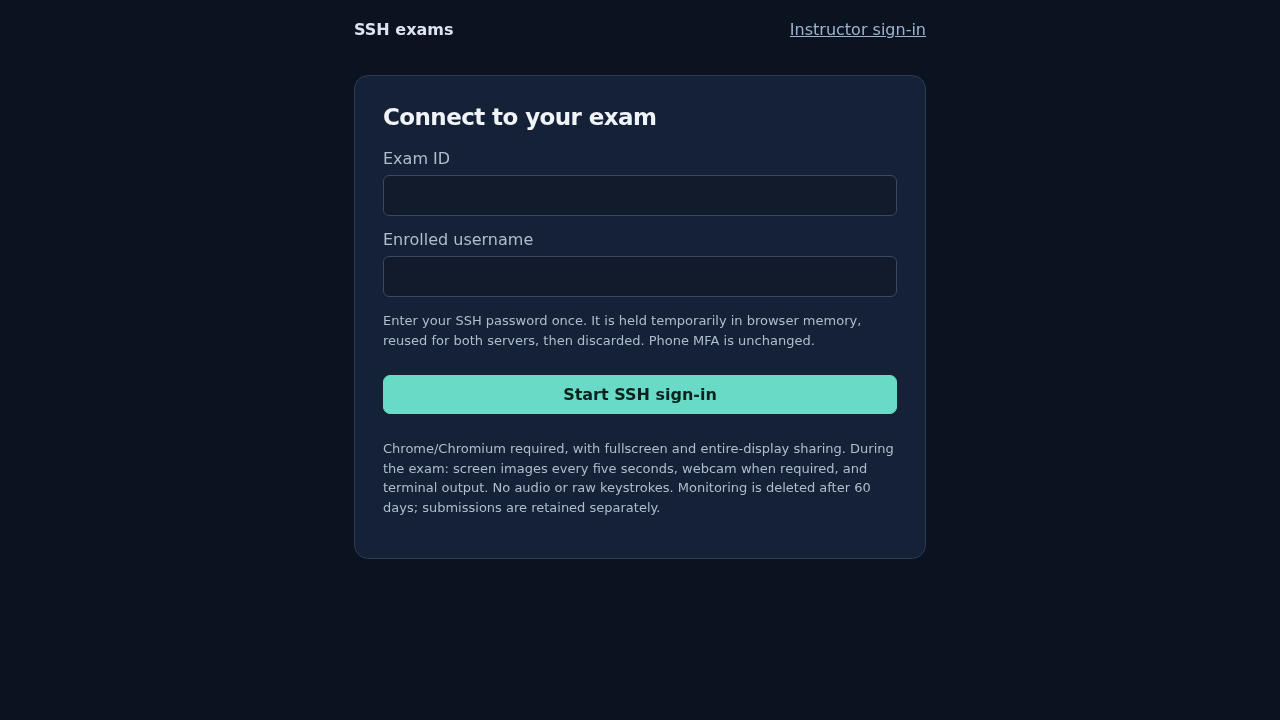
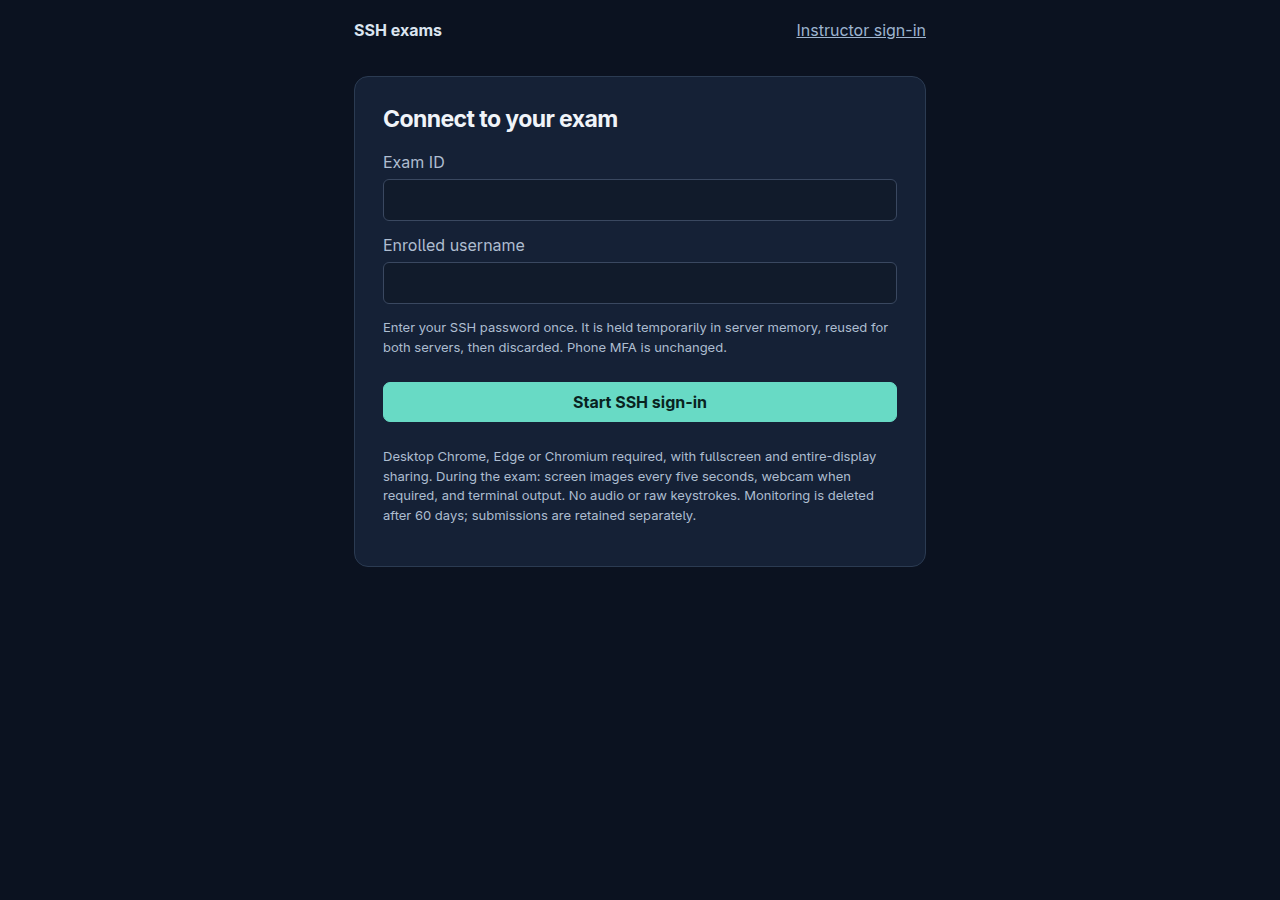
Distinguish paused SSH disconnects from agent outages and document Edge support

diff --git a/tests/unit/lifecycle.test.ts b/tests/unit/lifecycle.test.ts
@@ -1,6 +1,7 @@
 import { it, expect } from "vitest";
 import { Store } from "../../apps/server/src/db.js";
 import { Lifecycle } from "../../apps/server/src/lifecycle.js";
+import { AgentCommandDisconnectedError } from "../../apps/server/src/agent.js";
 import { Monitoring } from "../../apps/server/src/monitoring.js";
 import { mkdtempSync, rmSync } from "node:fs";
 import { tmpdir } from "node:os";
@@ -41,6 +42,61 @@ it("announces pause and disconnects before waiting for the class agent", async (
     rmSync(dir, { recursive: true, force: true });
   }
 });
+it.each([true, false])(
+  "audits an unconfirmed pause (disconnected=%s) without claiming an agent outage",
+  async (disconnected) => {
+    const dir = mkdtempSync(tmpdir() + "/pause-alert-");
+    const s = new Store(dir);
+    try {
+      s.db.exec(
+        "INSERT INTO exams VALUES('e','{}'); INSERT INTO attempts(id,exam,username,uid,state,settings,start,deadline) VALUES('a','e','alice',1001,'ACTIVE','{}',1,9999999999999);",
+      );
+      let reject!: (error: Error) => void;
+      const life = new Lifecycle(
+        s,
+        {
+          call: () =>
+            new Promise((_, fail) => {
+              reject = fail;
+            }),
+        } as any,
+        new Monitoring(s),
+      );
+      life.onPaused = () => {
+        reject(
+          disconnected
+            ? new AgentCommandDisconnectedError("SSH connection ended")
+            : Error("Agent command rejected: do not expose secret-details"),
+        );
+      };
+      await life.lock("a", "Monitoring confirmation expired");
+      expect(s.attempt("a").state).toBe("LOCKED");
+      expect(s.attempt("a").deadline).toBe(9999999999999);
+      const alerts = s.db
+        .prepare("SELECT subject,body FROM outbox ORDER BY rowid")
+        .all() as any[];
+      expect(alerts.map((a) => a.subject)).toEqual(
+        disconnected
+          ? ["Exam interrupted: alice"]
+          : ["Exam interrupted: alice", "Exam pause confirmation pending"],
+      );
+      expect(alerts[0].body).toContain("Monitoring confirmation expired");
+      const audit = s.db
+        .prepare(
+          "SELECT detail FROM audit WHERE action='lock-acknowledgment-pending'",
+        )
+        .get() as any;
+      expect(JSON.parse(audit.detail)).toEqual({
+        generation: 1,
+        cause: disconnected ? "ssh-disconnected" : "command-failed",
+      });
+      expect(JSON.stringify({ alerts, audit })).not.toContain("secret-details");
+    } finally {
+      s.close();
+      rmSync(dir, { recursive: true, force: true });
+    }
+  },
+);
 it("reconciles a lost activation acknowledgment into a lock with the original deadline", async () => {
   const dir = mkdtempSync(tmpdir() + "/exam-reconcile-");
   const s = new Store(dir);

diff --git a/apps/server/src/lifecycle.ts b/apps/server/src/lifecycle.ts
@@ -16,7 +16,7 @@ import {
 } from "node:fs";
 import path from "node:path";
 import { Store, now, hash, type Attempt } from "./db.js";
-import { Agent } from "./agent.js";
+import { Agent, AgentCommandDisconnectedError } from "./agent.js";
 import { Monitoring } from "./monitoring.js";
 // Collection metadata is immutable; connection bookkeeping is not part of the
 // submission. SSH replies and callbacks must compare the same public snapshot.
@@ -114,11 +114,8 @@ export class Lifecycle {
     });
     transaction();
     this.store.audit("gateway", "reauthentication-required", id);
-    const locking = this.agent.call("lock-attempt", {
-      id,
-      reason,
-      generation: this.store.attempt(id).generation,
-    });
+    const generation = this.store.attempt(id).generation;
+    const locking = this.agent.call("lock-attempt", { id, reason, generation });
     this.onPaused(this.store.attempt(id));
     await locking
       .then((remote) => {
@@ -131,12 +128,25 @@ export class Lifecycle {
             .run(id);
         }
       })
-      .catch(() =>
-        this.alert(
-          "Class agent unavailable",
-          `Attempt ${id} is locked at the gateway. Local execution lease must expire.`,
-        ),
-      );
+      .catch((error) => {
+        const disconnected = error instanceof AgentCommandDisconnectedError;
+        // Pausing deliberately closes student SSH, including pending command replies.
+        // Keep the uncertainty visible without misreporting that as an agent outage.
+        this.store.audit(
+          "gateway",
+          "lock-acknowledgment-pending",
+          id,
+          JSON.stringify({
+            generation,
+            cause: disconnected ? "ssh-disconnected" : "command-failed",
+          }),
+        );
+        if (!disconnected)
+          this.alert(
+            "Exam pause confirmation pending",
+            `${a.exam}: ${a.username}, attempt ${id}. Exam access is blocked at the gateway, but the class-server pause command was not confirmed. The local watchdog enforces expired execution leases. Review the authenticated dashboard and class-server status. A missing confirmation does not establish an agent outage.`,
+          );
+      });
   }
   async reconcile(id: string) {
     const remote = await this.agent.call("inspect-attempt", { id });

diff --git a/apps/server/src/ssh.ts b/apps/server/src/ssh.ts
@@ -2,7 +2,7 @@ import ssh2 from "ssh2";
 import type { Client as SSHClient, ClientChannel, ConnectConfig } from "ssh2";
 const { Client } = ssh2;
 import type { Config } from "../../../packages/config/index.js";
-import type { Agent } from "./agent.js";
+import { AgentCommandDisconnectedError, type Agent } from "./agent.js";
 import { LoginPassword, isPasswordPrompt } from "./login-password.js";
 export type Dialogue = (
   host: string,
@@ -321,7 +321,8 @@ export class Connection {
     }
   }
   async command(op: string, body: any = {}): Promise<any> {
-    if (!this.alive) throw Error("SSH transports unavailable");
+    if (!this.alive)
+      throw new AgentCommandDisconnectedError("SSH transports unavailable");
     const envelope = this.agent.sign(op, this.username, this.transport, body);
     return new Promise((resolve, reject) => {
       this.class.exec("exam-control", (error, channel) => {
@@ -345,7 +346,11 @@ export class Connection {
         );
         channel.on("error", (e: Error) => finish(e));
         channel.on("close", () =>
-          finish(Error("SSH command ended without acknowledgment")),
+          finish(
+            new AgentCommandDisconnectedError(
+              "SSH command ended without acknowledgment",
+            ),
+          ),
         );
         channel.on("data", (chunk: Buffer) => {
           input = Buffer.concat([input, chunk]);
@@ -433,7 +438,8 @@ export class Connection {
   async open(attempt: string, pane: string, purpose = "exam") {
     if (this.config.loginOnly)
       throw Error("Terminals are unavailable during login-only testing");
-    if (!this.alive) throw Error("SSH transports unavailable");
+    if (!this.alive)
+      throw new AgentCommandDisconnectedError("SSH transports unavailable");
     const admission = await this.command("issue-channel-admission", {
       id: attempt,
       pane,

diff --git a/apps/server/src/browser-ssh.ts b/apps/server/src/browser-ssh.ts
@@ -3,7 +3,7 @@ import { randomUUID, sign, createHash } from "node:crypto";
 import { readFileSync } from "node:fs";
 import type { WebSocket } from "ws";
 import { Connection, type Dialogue } from "./ssh.js";
-import type { Agent } from "./agent.js";
+import { AgentCommandDisconnectedError, type Agent } from "./agent.js";
 import type { Config } from "../../../packages/config/index.js";
 
 class BrowserPane extends EventEmitter {
@@ -149,7 +149,9 @@ export class BrowserConnection extends Connection {
   private request(op: string, args: any, timeout = 120000): Promise<any> {
     if (!this.socket || this.socket.readyState !== 1)
       return Promise.reject(
-        Error("Browser SSH control connection unavailable"),
+        new AgentCommandDisconnectedError(
+          "Browser SSH control connection unavailable",
+        ),
       );
     const id = randomUUID();
     return new Promise((resolve, reject) => {
@@ -265,7 +267,8 @@ export class BrowserConnection extends Connection {
     }
   }
   override async command(op: string, body: any = {}) {
-    if (!this.alive) throw Error("SSH transports unavailable");
+    if (!this.alive)
+      throw new AgentCommandDisconnectedError("SSH transports unavailable");
     const frame = this.authority.sign(op, this.username, this.transport, {
       ...body,
       browser_ssh: true,
@@ -321,7 +324,7 @@ export class BrowserConnection extends Connection {
     this.authority.unbind(this);
     for (const p of this.pending.values()) {
       clearTimeout(p.timer);
-      p.reject(Error("SSH connection ended"));
+      p.reject(new AgentCommandDisconnectedError("SSH connection ended"));
     }
     this.pending.clear();
     for (const p of this.panes.values()) p.close();

diff --git a/tests/integration/browser-ssh.test.ts b/tests/integration/browser-ssh.test.ts
@@ -4,7 +4,10 @@ import { generateKeyPairSync, sign } from "node:crypto";
 import { mkdtempSync, writeFileSync, rmSync } from "node:fs";
 import { tmpdir } from "node:os";
 import { BrowserConnection } from "../../apps/server/src/browser-ssh.js";
-import { Agent } from "../../apps/server/src/agent.js";
+import {
+  Agent,
+  AgentCommandDisconnectedError,
+} from "../../apps/server/src/agent.js";
 
 it("accepts only agent-signed SSH identity/results with exact nonce, account and transport", async () => {
   const dir = mkdtempSync(tmpdir() + "/browser-proof-");
@@ -84,6 +87,17 @@ it("accepts only agent-signed SSH identity/results with exact nonce, account and
         });
     };
     await expect(conn.command("health")).rejects.toThrow("Signed SSH");
+    // A pause closes this transport while its signed command is still pending.
+    socket.send = () => {};
+    const pending = conn.command("lock-attempt", { id: "attempt" });
+    const rejected = expect(pending).rejects.toBeInstanceOf(
+      AgentCommandDisconnectedError,
+    );
+    conn.close();
+    await rejected;
+    await expect(conn.command("health")).rejects.toBeInstanceOf(
+      AgentCommandDisconnectedError,
+    );
   } finally {
     conn.close();
     rmSync(dir, { recursive: true, force: true });

diff --git a/tests/browser/interface.spec.ts b/tests/browser/interface.spec.ts
@@ -194,6 +194,9 @@ for (const [index, missing] of [
     await expect(page.getByRole("alert")).toContainText(
       "This browser cannot run an exam",
     );
+    await expect(page.getByRole("alert")).toContainText(
+      "desktop Chrome, Edge or Chromium",
+    );
     await expect(
       page.getByRole("button", { name: "Start SSH sign-in" }),
     ).toHaveCount(0);
@@ -899,7 +902,7 @@ test("preflight errors stay visible inside fullscreen and keyboard lock can be r
   await lock.click();
   const error = page.getByRole("dialog", { name: "Keyboard lock failed" });
   await expect(error).toBeVisible();
-  await expect(error).toContainText("standalone desktop Chrome or Chromium");
+  await expect(error).toContainText("standalone desktop Chrome, Edge or Chromium");
   await expect(error).toContainText("lock() request could not be registered.");
   await error.screenshot({
     path: test.info().outputPath("fullscreen-keyboard-error.png"),

diff --git a/apps/web/src/main.tsx b/apps/web/src/main.tsx
@@ -726,7 +726,7 @@ function App() {
                 <p className="login-note">
                   {loginTest?.loginOnly
                     ? "Login test only; no exam or recording starts."
-                    : "Chrome/Chromium required, with fullscreen and entire-display sharing. During the exam: screen images every five seconds, webcam when required, and terminal output. No audio or raw keystrokes. Monitoring is deleted after 60 days; submissions are retained separately."}
+                    : "Desktop Chrome, Edge or Chromium required, with fullscreen and entire-display sharing. During the exam: screen images every five seconds, webcam when required, and terminal output. No audio or raw keystrokes. Monitoring is deleted after 60 days; submissions are retained separately."}
                 </p>
               )}
             </section>

diff --git a/apps/server/src/agent.ts b/apps/server/src/agent.ts
@@ -2,6 +2,13 @@ import { readFileSync } from "node:fs";
 import { randomUUID, sign, verify } from "node:crypto";
 import type { Config } from "../../../packages/config/index.js";
 import type { Store } from "./db.js";
+// Losing the student command transport is not evidence of a class-agent outage.
+export class AgentCommandDisconnectedError extends Error {
+  constructor(message: string) {
+    super(message);
+    this.name = "AgentCommandDisconnectedError";
+  }
+}
 export interface AgentSession {
   username: string;
   alive: boolean;
@@ -102,7 +109,7 @@ export class Agent {
       }
       return result as T;
     }
-    throw Error(
+    throw new AgentCommandDisconnectedError(
       "Reconnect student SSH before this operation; deadlines are enforced locally",
     );
   }

diff --git a/apps/web/src/workspace.tsx b/apps/web/src/workspace.tsx
@@ -977,7 +977,7 @@ export function Workspace({
       await (navigator as any).keyboard.lock();
     } catch (error) {
       throw Error(
-        "Keyboard lock could not be enabled. Try again and approve any browser permission prompt. If it still fails, open this page in a standalone desktop Chrome or Chromium window. " +
+        "Keyboard lock could not be enabled. Try again and approve any browser permission prompt. If it still fails, open this page in a standalone desktop Chrome, Edge or Chromium window. " +
           `Browser message: ${(error as Error).message}`,
       );
     }

diff --git a/apps/web/src/browser-support.ts b/apps/web/src/browser-support.ts
@@ -1,5 +1,5 @@
 const requirement =
-  "This browser cannot run an exam. Open this page in desktop Chrome or Chromium with fullscreen, screen sharing and keyboard lock enabled.";
+  "This browser cannot run an exam. Open this page in desktop Chrome, Edge or Chromium with fullscreen, screen sharing and keyboard lock enabled.";
 
 function deniedByPolicy(feature: string) {
   const policy =

diff --git a/design.md b/design.md
@@ -18,7 +18,7 @@ Verify current library interfaces when implementing, pin dependency versions and
 ### Non-negotiable requirements
 
 - One continuous timed attempt, normally **90 minutes**. No student-controlled pause or resume.
-- Chrome/Chromium desktop browser, with successful capability and permission checks.
+- Chrome, Edge or Chromium desktop browser, with successful capability and permission checks.
 - One fullscreen browser workspace containing **floating terminal windows**, not browser popups or tabs.
 - No tmux. Each terminal uses a separate SSH session channel on one retained connection to the class server.
 - One initial two-hop SSH authentication sequence, including jump-host two-factor authentication. Creating terminals must not authenticate again.
@@ -83,7 +83,7 @@ Distinguish these guarantees in documentation:
 ## 4. Architecture
 
 ```text
-Student Chrome/Chromium
+Student Chrome/Edge/Chromium
   ├─ Fullscreen workspace, floating xterm terminals, screen/webcam capture
   ├─ Dedicated Web Worker: Go/WASM SSH client, two retained SSH transports
   │    └─ WSS csc-sys relay → institutional proxy → sshjump (password + MFA)
@@ -494,6 +494,8 @@ Implement all three channels:
 Send interruption alerts with username, exam, reason, time remaining at generation, and a link to the incident requiring normal administrator authentication. Never embed screenshots, passwords, one-use continuation credentials, or a link that performs an action on GET.
 
 Coalesce correlated triggers into one incident. Send a follow-up when the student requests review, without allowing message flooding. Also alert on collection failure, recording-storage failure, class-agent loss, and collection/status recovery failures. During widespread outages, group email summaries while retaining individual incident records.
+
+Pausing deliberately disconnects student SSH, which can cancel the outstanding lock-command acknowledgment. Treat that as an unconfirmed command, not evidence that the class agent is unavailable. Retain the interruption email and audit the lost confirmation with its generation and a non-secret cause; do not send a second outage email for a disconnected command transport. Unexpected command failures still generate an accurately labeled pause-confirmation-pending alert. Signed callbacks remain authoritative, and the independent local execution lease/watchdog still enforces the pause. This notification handling must not delay disconnection, authorize input, extend the deadline, or weaken recovery requirements.
 
 SMTP recipients are administrator-configurable as an address list. Host-local OpenSMTPD may use a private Unix socket owned by the application UID, forwarded to a dedicated loopback SMTP listener; its administrative enqueue socket is not a raw SMTP endpoint. Verify actual recipient delivery and durable retry across an application restart.
 
@@ -1109,7 +1111,7 @@ Automate what is practical and provide a signed-off manual matrix for browser/OS
 - Move, resize, minimize, maximize, restore, side-by-side, snap, rename, close, and layout reset preserve appropriate terminal state.
 - The timer and lock overlay remain visible above all internal windows.
 - PTY size reaches editors; minimizing never sends invalid zero dimensions or opens another shell.
-- Escape, interrupt, suspend, EOF, editor shortcuts, non-US/Dvorak layouts, and supported input methods work in the tested Chrome/Chromium matrix.
+- Escape, interrupt, suspend, EOF, editor shortcuts, non-US/Dvorak layouts, and supported input methods work in the tested Chrome/Edge/Chromium matrix.
 - Internal clipboard works between terminals, including multiline bracketed paste, while ordinary paste/middle-click/drag-drop paths and OSC 52 integration are blocked in the active exam.
 - Login/password-manager input and administrator CSV paste remain usable.
 - Hostile terminal titles/output/URLs cannot execute script, navigate the browser, open another app, or alter clipboard policy.

diff --git a/docs/compatibility.md b/docs/compatibility.md
@@ -18,6 +18,21 @@ This runtime qualification does not grant production deployment signoff. The Doc
 pins the official 26.11.1-bookworm-slim image by registry-verified manifest digest;
 the container build remains untested because no Docker daemon is available here.
 
+## Microsoft Edge qualification (2026-10-18)
+
+Genuine Microsoft Edge 155.0.4283.62 on Linux passed native fullscreen,
+Keyboard Lock and display capture, plus preflight with and without a webcam.
+The browser WASM SSH flow passed fixture MFA, practice/active terminal input,
+multiple panes and finishing. Network/recovery and window lifecycle checks passed;
+two collection-failure simulation tests initially timed out and passed on a traced
+rerun. No browser API overrides were used in the native capability tests.
+
+This used an isolated X11 display, automated permission approval, a synthetic camera
+and local SSH/MFA fixtures. It does not qualify Windows/macOS, physical camera/input
+behavior or actual DePaul phone approval. Browser admission remains based on
+capabilities and permissions, with actual grants checked during preflight; the Edge
+name does not bypass those requirements.
+
 ## Deployment qualification
 
 | Integration | Evidence here | Required qualification |
@@ -25,7 +40,7 @@ the container build remains untested because no Docker daemon is available here.
 | DePaul jump-host number matching | Disposable ssh2 host, including zero-prompt instruction round | Real authorized login, cancellation, rejection, timeout and safe instruction display; **untested** |
 | Separate class authentication, pins, four channels | Real loopback SSH transports; both host-key mismatch tests pass | Actual MaxSessions, forwarding policy and retained transport behavior |
 | Ubuntu/systemd/cgroup v2 guard | Native state/collector, real localhost OpenSSH route tests and machine-check contract tests | Root install on disposable target; all ordinary-access bypass, process/job quiescence, transport survival and resource-limit checks in SPEC §22.2–22.3 |
-| Fullscreen and Keyboard Lock | Chromium headless fullscreen; Keyboard Lock stub | Real Chrome/Chromium version and OS; separate user gestures, Escape, focus loss, application switching, keyboard layouts and editor shortcuts |
+| Fullscreen and Keyboard Lock | Chromium headless fullscreen; Keyboard Lock stub | Real Chrome/Edge/Chromium version and OS; separate user gestures, Escape, focus loss, application switching, keyboard layouts and editor shortcuts |
 | Screen and webcam permissions | Synthetic video tracks in browser tests | Entire-display selection rejection for tab/window, track loss, webcam override, independent cadence, clear readable images and credentials excluded during approved authentication |
 | Protected cutoff and recovery | Hostile filesystem collector tests | Background writer under real frozen cgroup, disk exhaustion, daemon/host restarts, export outage and restoration only after original deadline AND secured collection |
 | HTTPS, nginx, Docker and systemd | nginx syntax with temporary certificates | Real certificate/WebSocket path, Compose build/start/stop, non-root private-volume permissions and systemd startup; Docker daemon unavailable here |
